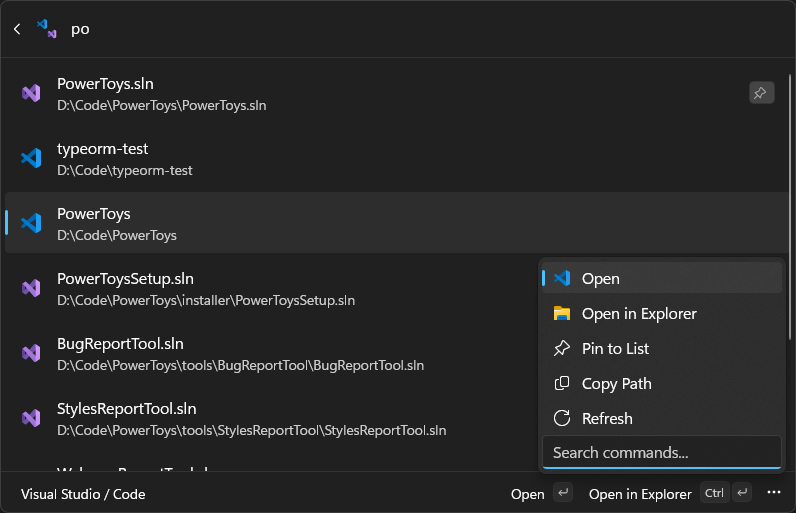
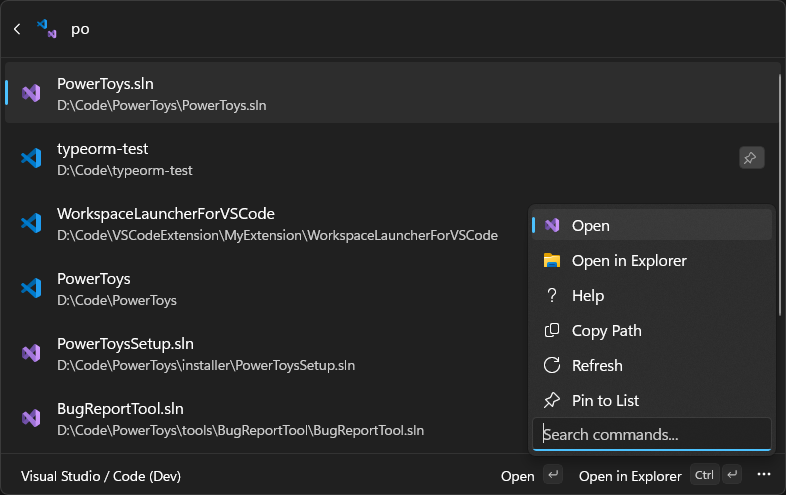
1.11.0.0

diff --git a/WorkspaceLauncherForVSCode/Pages/VisualStudioCodePage.cs b/WorkspaceLauncherForVSCode/Pages/VisualStudioCodePage.cs
@@ -11,6 +11,7 @@ using WorkspaceLauncherForVSCode.Classes;
 using WorkspaceLauncherForVSCode.Commands;
 using WorkspaceLauncherForVSCode.Interfaces;
 using WorkspaceLauncherForVSCode.Listeners;
+using WorkspaceLauncherForVSCode.Pages;
 using WorkspaceLauncherForVSCode.Properties;
 using WorkspaceLauncherForVSCode.Workspaces;
 
@@ -34,9 +35,14 @@ public sealed partial class VisualStudioCodePage : DynamicListPage, IDisposable
 
     private RefreshWorkspacesCommand _refreshWorkspacesCommand;
     private CommandContextItem _refreshWorkspacesCommandContextItem;
-    private CommandContextItem _openExtensionSettingsLogsCommandContextItem;
+    private CommandContextItem _helpCommandContextItem;
     private readonly IListItem[] _noResultsRefreshItem;
     private readonly IListItem[] _refreshSuggestionItem;
+    private readonly HelpPage _helpPage;
+
+    public event Action<int> TotalChanged;
+    public event Action<int> TotalVisualStudioChanged;
+    public event Action<int> TotalVisualStudioCodeChanged;
 
     public VisualStudioCodePage(SettingsManager settingsManager, IVisualStudioCodeService vscodeService, SettingsListener settingsListener)
     {
@@ -46,6 +52,7 @@ public sealed partial class VisualStudioCodePage : DynamicListPage, IDisposable
 #endif
         this.Icon = Classes.Icon.VisualStudioAndVisualStudioCode;
         Name = Resource.page_command_name;
+        Id = "VisualStudioCodePage";
 
         _settingsManager = settingsManager;
         _vscodeService = vscodeService;
@@ -53,7 +60,12 @@ public sealed partial class VisualStudioCodePage : DynamicListPage, IDisposable
         ShowDetails = _settingsManager.ShowDetails;
         _refreshWorkspacesCommand = new(_vscodeService, settingsManager, this);
         _refreshWorkspacesCommandContextItem = new CommandContextItem(_refreshWorkspacesCommand);
-        _openExtensionSettingsLogsCommandContextItem = new CommandContextItem(new OpenInExplorerCommand(Utilities.BaseSettingsPath(Constant.AppName), null, this, "Open extension settings / logs folder"));
+
+        _helpPage = new HelpPage();
+        TotalChanged += _helpPage.UpdateTotal;
+        TotalVisualStudioChanged += _helpPage.UpdateTotalVisualStudio;
+        TotalVisualStudioCodeChanged += _helpPage.UpdateTotalVisualStudioCode;
+        _helpCommandContextItem = new CommandContextItem(_helpPage);
         _settingsListener = settingsListener;
         _settingsListener.PageSettingsChanged += OnPageSettingsChanged;
         _noResultsRefreshItem = [
@@ -199,7 +211,12 @@ public sealed partial class VisualStudioCodePage : DynamicListPage, IDisposable
             var workspaces = await workspacesTask;
             var solutions = solutionsTask != null ? await solutionsTask : new List<VisualStudioCodeWorkspace>();
 
+            TotalVisualStudioCodeChanged?.Invoke(workspaces.Count);
+            TotalVisualStudioChanged?.Invoke(solutions.Count);
+
             workspaces.AddRange(solutions);
+
+            TotalChanged?.Invoke(workspaces.Count);
 
             await _workspaceStorage.SaveWorkspacesAsync(workspaces);
             UpdateWorkspaceList(workspaces, cancellationToken);
@@ -232,7 +249,7 @@ public sealed partial class VisualStudioCodePage : DynamicListPage, IDisposable
         using var logger = new TimeLogger();
 #endif
         var newItems = workspaces
-            .Select(w => WorkspaceItemFactory.Create(w, this, _workspaceStorage, _settingsManager, _refreshWorkspacesCommandContextItem, _openExtensionSettingsLogsCommandContextItem))
+            .Select(w => WorkspaceItemFactory.Create(w, this, _workspaceStorage, _settingsManager, _refreshWorkspacesCommandContextItem, _helpCommandContextItem))
             .ToList();
 
         lock (_itemsLock)
@@ -270,7 +287,7 @@ public sealed partial class VisualStudioCodePage : DynamicListPage, IDisposable
                     workspace.PinDateTime = workspace.PinDateTime.HasValue ? null : DateTime.UtcNow;
                     if (_allItems.Remove(itemToUpdate))
                     {
-                        _allItems.Add(WorkspaceItemFactory.Create(workspace, this, _workspaceStorage, _settingsManager, _refreshWorkspacesCommandContextItem, _openExtensionSettingsLogsCommandContextItem));
+                        _allItems.Add(WorkspaceItemFactory.Create(workspace, this, _workspaceStorage, _settingsManager, _refreshWorkspacesCommandContextItem, _helpCommandContextItem));
                     }
 
                     _cachedFilteredItems = WorkspaceFilter.Filter(SearchText, _allItems, _settingsManager.SearchBy);
@@ -322,6 +339,9 @@ public sealed partial class VisualStudioCodePage : DynamicListPage, IDisposable
         _cancellationTokenSource.Cancel();
         _cancellationTokenSource.Dispose();
         _settingsListener.PageSettingsChanged -= OnPageSettingsChanged;
+        TotalChanged -= _helpPage.UpdateTotal;
+        TotalVisualStudioChanged -= _helpPage.UpdateTotalVisualStudio;
+        TotalVisualStudioCodeChanged -= _helpPage.UpdateTotalVisualStudioCode;
         _workspaceStorage.Dispose();
         _refreshSemaphore.Dispose();
     }

diff --git a/WorkspaceLauncherForVSCode/Pages/HelpPage.cs b/WorkspaceLauncherForVSCode/Pages/HelpPage.cs
@@ -1,0 +1,78 @@
+// Copyright (c) 2025 tanchekwei
+// Licensed under the MIT License. See the LICENSE file in the project root for details.
+using Microsoft.CommandPalette.Extensions;
+using Microsoft.CommandPalette.Extensions.Toolkit;
+using WorkspaceLauncherForVSCode.Classes;
+using WorkspaceLauncherForVSCode.Commands;
+
+using OpenUrlCommand = WorkspaceLauncherForVSCode.Commands.OpenUrlCommand;
+
+namespace WorkspaceLauncherForVSCode.Pages
+{
+    public sealed partial class HelpPage : ListPage
+    {
+        private static readonly ListItem _openSettingsItem = new ListItem(new OpenInExplorerCommand(Utilities.BaseSettingsPath(Constant.AppName), null, null, "Open extension settings / logs folder"));
+        private static readonly ListItem _viewSourceItem = new ListItem(new OpenUrlCommand("https://github.com/tanchekwei/WorkspaceLauncherForVSCode", "View source code", Classes.Icon.GitHub));
+        private static readonly ListItem _reportBugItem = new ListItem(new OpenUrlCommand("https://github.com/tanchekwei/WorkspaceLauncherForVSCode/issues/new", "Report issue", Classes.Icon.GitHub));
+        private int _total;
+        private int _totalVisualStudio;
+        private int _totalVisualStudioCode;
+        public HelpPage()
+        {
+            Name = "Help";
+            Icon = Classes.Icon.Help;
+            Id = "HelpPage";
+        }
+
+        public override IListItem[] GetItems()
+        {
+            return [
+                _reportBugItem,
+                _viewSourceItem,
+                new ListItem()
+                {
+                    Title = $"{_totalVisualStudio}",
+                    Subtitle = "Visual Studio Count",
+                    Icon = Classes.Icon.VisualStudio,
+                },
+                new ListItem()
+                {
+                    Title = $"{_totalVisualStudioCode}",
+                    Subtitle = "Visual Studio Code Count",
+                    Icon = Classes.Icon.VisualStudioCode,
+                },
+                new ListItem()
+                {
+                    Title = $"{_total}",
+                    Subtitle = "Visual Studio / Code Count",
+                    Icon = Classes.Icon.VisualStudioAndVisualStudioCode,
+                },
+                new ListItem()
+                {
+                    Title = "1.11.0.0",
+                    Subtitle = "Extension Version",
+                    Icon = Classes.Icon.Extension,
+                },
+                _openSettingsItem,
+            ];
+        }
+
+        public void UpdateTotal(int count)
+        {
+            _total = count;
+            RaiseItemsChanged();
+        }
+
+        public void UpdateTotalVisualStudio(int count)
+        {
+            _totalVisualStudio = count;
+            RaiseItemsChanged();
+        }
+
+        public void UpdateTotalVisualStudioCode(int count)
+        {
+            _totalVisualStudioCode = count;
+            RaiseItemsChanged();
+        }
+    }
+}

diff --git a/WorkspaceLauncherForVSCode/Classes/Icon.cs b/WorkspaceLauncherForVSCode/Classes/Icon.cs
@@ -6,11 +6,15 @@ namespace WorkspaceLauncherForVSCode.Classes;
 
 public static class Icon
 {
+    public static readonly IconInfo Extension = IconHelpers.FromRelativePath(@"Assets\icon.svg");
     public static readonly IconInfo VisualStudio = IconHelpers.FromRelativePath(@"Assets\VisualStudioIcon.svg");
     public static readonly IconInfo VisualStudioCode = IconHelpers.FromRelativePath("Assets\\VisualStudioCodeIcon.svg");
     public static readonly IconInfo VisualStudioAndVisualStudioCode = IconHelpers.FromRelativePath("Assets\\VisualStudioAndVisualStudioCodeIcon.svg");
-    public static readonly IconInfo VisualStudioCodeInsider = IconHelpers.FromRelativePath("Assets\\VisualStudioCodeInsiderIcon.svg");
     public static readonly IconInfo FileExplorer = IconHelpers.FromRelativePath("Assets\\FileExplorer.svg");
+    public static readonly IconInfo GitHub = IconHelpers.FromRelativePath("Assets\\github-mark-white.svg");
     public static readonly IconInfo Pinned = new IconInfo("\ue718");
     public static readonly IconInfo Unpinned = new IconInfo("\ue77a");
+    public static readonly IconInfo Web = new("\uE774");
+    public static readonly IconInfo Help = new IconInfo("\uE897");
+    public static readonly IconInfo Info = new IconInfo("\uE946");
 }

diff --git a/WorkspaceLauncherForVSCode/Workspaces/WorkspaceItemFactory.cs b/WorkspaceLauncherForVSCode/Workspaces/WorkspaceItemFactory.cs
@@ -24,7 +24,7 @@ namespace WorkspaceLauncherForVSCode.Workspaces
             WorkspaceStorage workspaceStorage,
             SettingsManager settingsManager,
             CommandContextItem refreshCommandContextItem,
-            CommandContextItem openExtensionSettingsLogsCommandContextItem)
+            CommandContextItem helpCommandContextItem)
         {
 #if DEBUG
             using var logger = new TimeLogger();
@@ -91,12 +91,10 @@ namespace WorkspaceLauncherForVSCode.Workspaces
                 MoreCommands =
                 [
                     new CommandContextItem(new OpenInExplorerCommand(workspace.WindowsPath ?? string.Empty, workspace, page)),
-                    new CommandContextItem(new PinWorkspaceCommand(workspace, page, workspaceStorage)),
+                    helpCommandContextItem,
                     new CommandContextItem(new CopyPathCommand(workspace.WindowsPath ?? string.Empty)),
                     refreshCommandContextItem,
-#if DEBUG
-                    openExtensionSettingsLogsCommandContextItem,
-#endif
+                    new CommandContextItem(new PinWorkspaceCommand(workspace, page, workspaceStorage)),
                 ]
             };
             return item;

diff --git a/WorkspaceLauncherForVSCode/Commands/OpenInExplorerCommand.cs b/WorkspaceLauncherForVSCode/Commands/OpenInExplorerCommand.cs
@@ -10,8 +10,8 @@ namespace WorkspaceLauncherForVSCode.Commands
     public sealed partial class OpenInExplorerCommand : InvokableCommand
     {
         private readonly VisualStudioCodeWorkspace? workspace;
-        private readonly VisualStudioCodePage page;
-        public OpenInExplorerCommand(string arguments, VisualStudioCodeWorkspace? workspace, VisualStudioCodePage page, string name = "Open in Explorer", string path = "explorer.exe", string? workingDir = null, OpenInShellHelper.ShellRunAsType runAs = OpenInShellHelper.ShellRunAsType.None, bool runWithHiddenWindow = false)
+        private readonly VisualStudioCodePage? page;
+        public OpenInExplorerCommand(string arguments, VisualStudioCodeWorkspace? workspace, VisualStudioCodePage? page, string name = "Open in Explorer", string path = "explorer.exe", string? workingDir = null, OpenInShellHelper.ShellRunAsType runAs = OpenInShellHelper.ShellRunAsType.None, bool runWithHiddenWindow = false)
         {
             Name = name;
             _path = path;

diff --git a/WorkspaceLauncherForVSCode/Classes/VisualStudioCodeInstance.cs b/WorkspaceLauncherForVSCode/Classes/VisualStudioCodeInstance.cs
@@ -17,7 +17,7 @@ public class VisualStudioCodeInstance
     public VisualStudioCodeInstallationType InstallationType { get; set; }
     public VisualStudioCodeType VisualStudioCodeType { get; set; }
     [JsonIgnore]
-    public IconInfo Icon => GetIcon();
+    public static IconInfo Icon => GetIcon();
 
     public VisualStudioCodeInstance() { }
     /// <summary>
@@ -41,15 +41,8 @@ public class VisualStudioCodeInstance
     /// Gets the icon associated with the Visual Studio Code instance.
     /// </summary>
     /// <returns>An icon representing the Visual Studio Code instance.</returns>
-    private IconInfo GetIcon()
+    private static IconInfo GetIcon()
     {
-        switch (VisualStudioCodeType)
-        {
-            case VisualStudioCodeType.Insider:
-                return Classes.Icon.VisualStudioCodeInsider;
-            case VisualStudioCodeType.Default:
-            default:
-                return Classes.Icon.VisualStudioCode;
-        }
+        return Classes.Icon.VisualStudioCode;
     }
 }

diff --git a/WorkspaceLauncherForVSCode/Commands/OpenUrlCommand.cs b/WorkspaceLauncherForVSCode/Commands/OpenUrlCommand.cs
@@ -1,0 +1,26 @@
+// Copyright (c) 2025 tanchekwei
+// Licensed under the MIT License. See the LICENSE file in the project root for details.
+using System.Diagnostics;
+using Microsoft.CommandPalette.Extensions;
+using Microsoft.CommandPalette.Extensions.Toolkit;
+
+namespace WorkspaceLauncherForVSCode.Commands
+{
+    internal sealed partial class OpenUrlCommand : InvokableCommand
+    {
+        private readonly string Url;
+
+        public OpenUrlCommand(string url, string name, IconInfo icon)
+        {
+            Url = url;
+            Name = name;
+            Icon = icon;
+        }
+
+        public override ICommandResult Invoke()
+        {
+            Process.Start(new ProcessStartInfo(Url) { UseShellExecute = true });
+            return CommandResult.Hide();
+        }
+    }
+}

diff --git a/WorkspaceLauncherForVSCode/Properties/Resource.Designer.cs b/WorkspaceLauncherForVSCode/Properties/Resource.Designer.cs
@@ -12,7 +12,7 @@ namespace WorkspaceLauncherForVSCode.Properties
 {
     using System;
 
-    /// <summary>
+/// <summary>
     ///   A strongly-typed resource class, for looking up localized strings, etc.
     /// </summary>
     // This class was auto-generated by the StronglyTypedResourceBuilder
